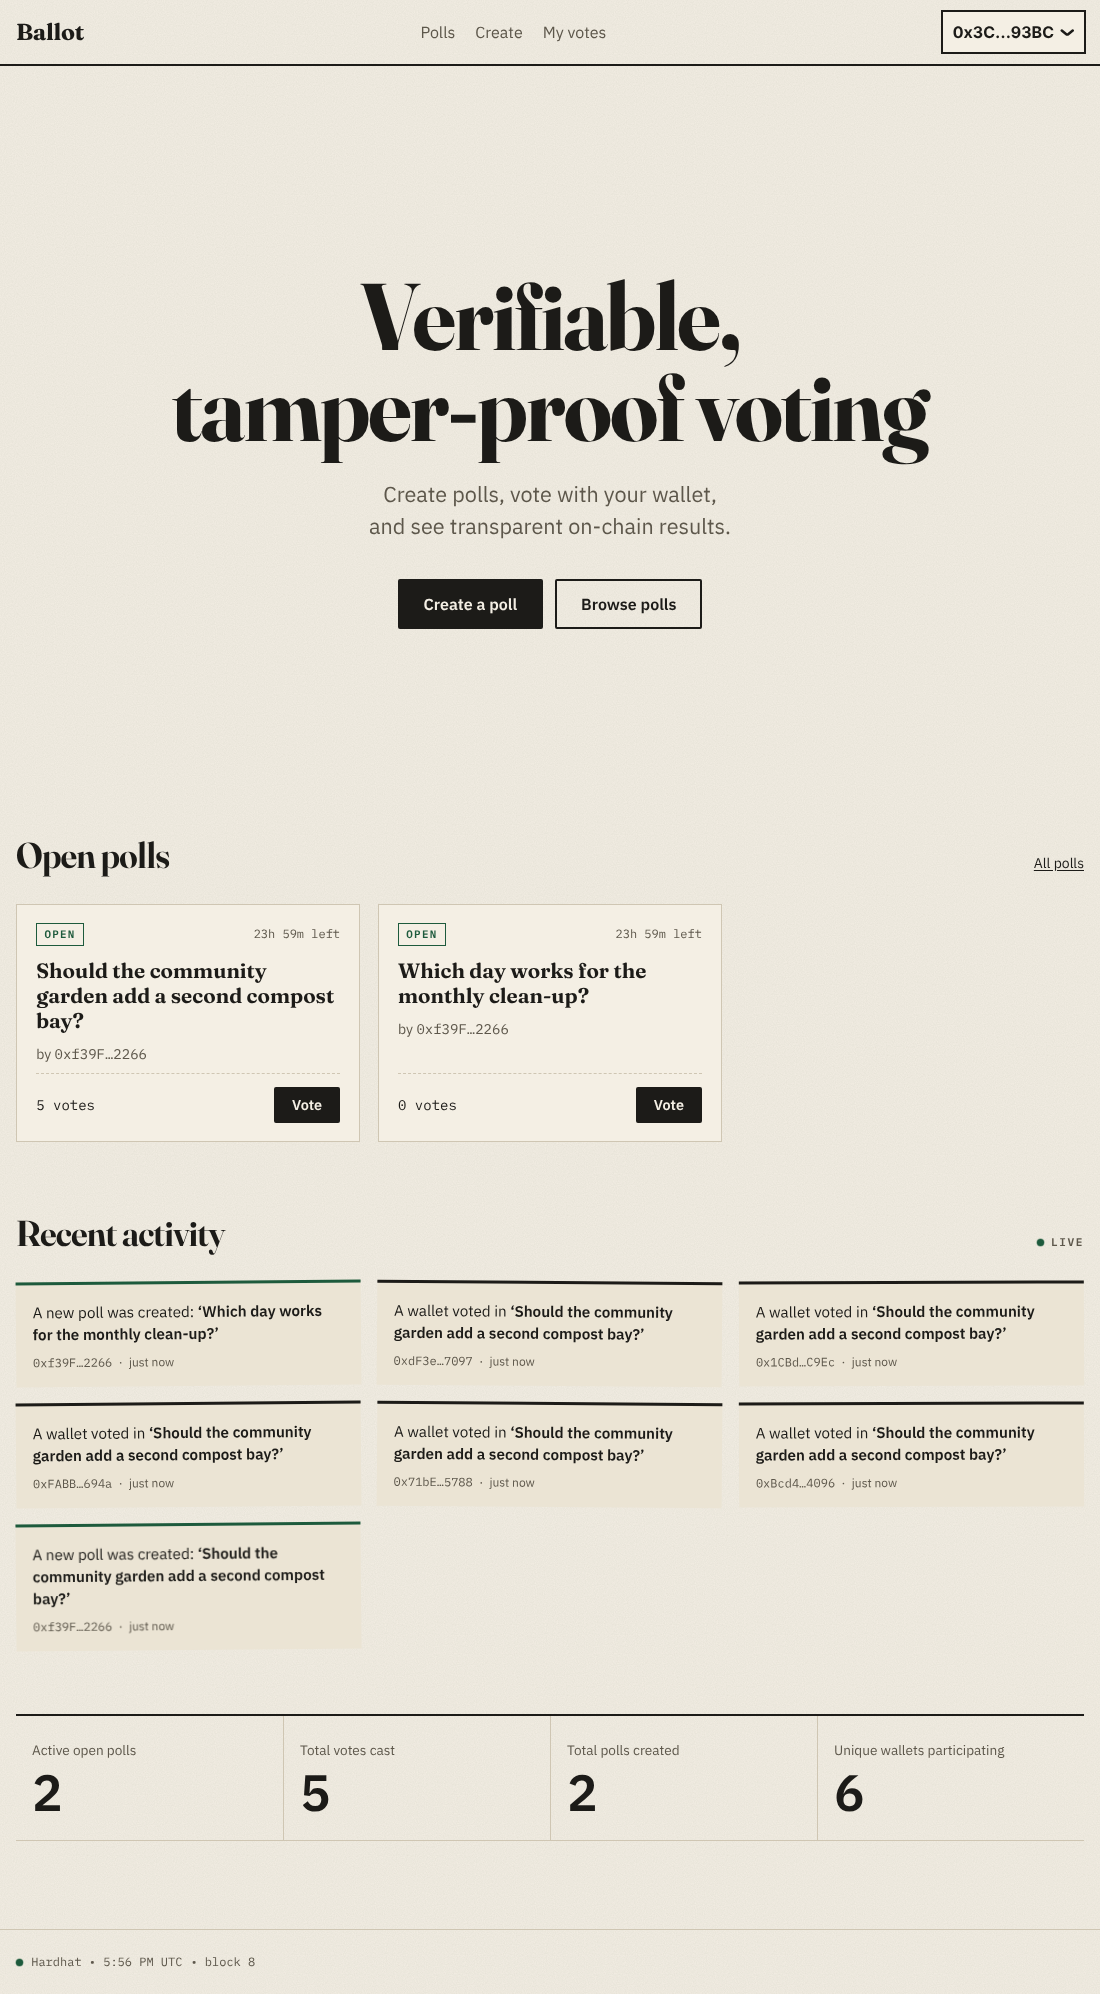
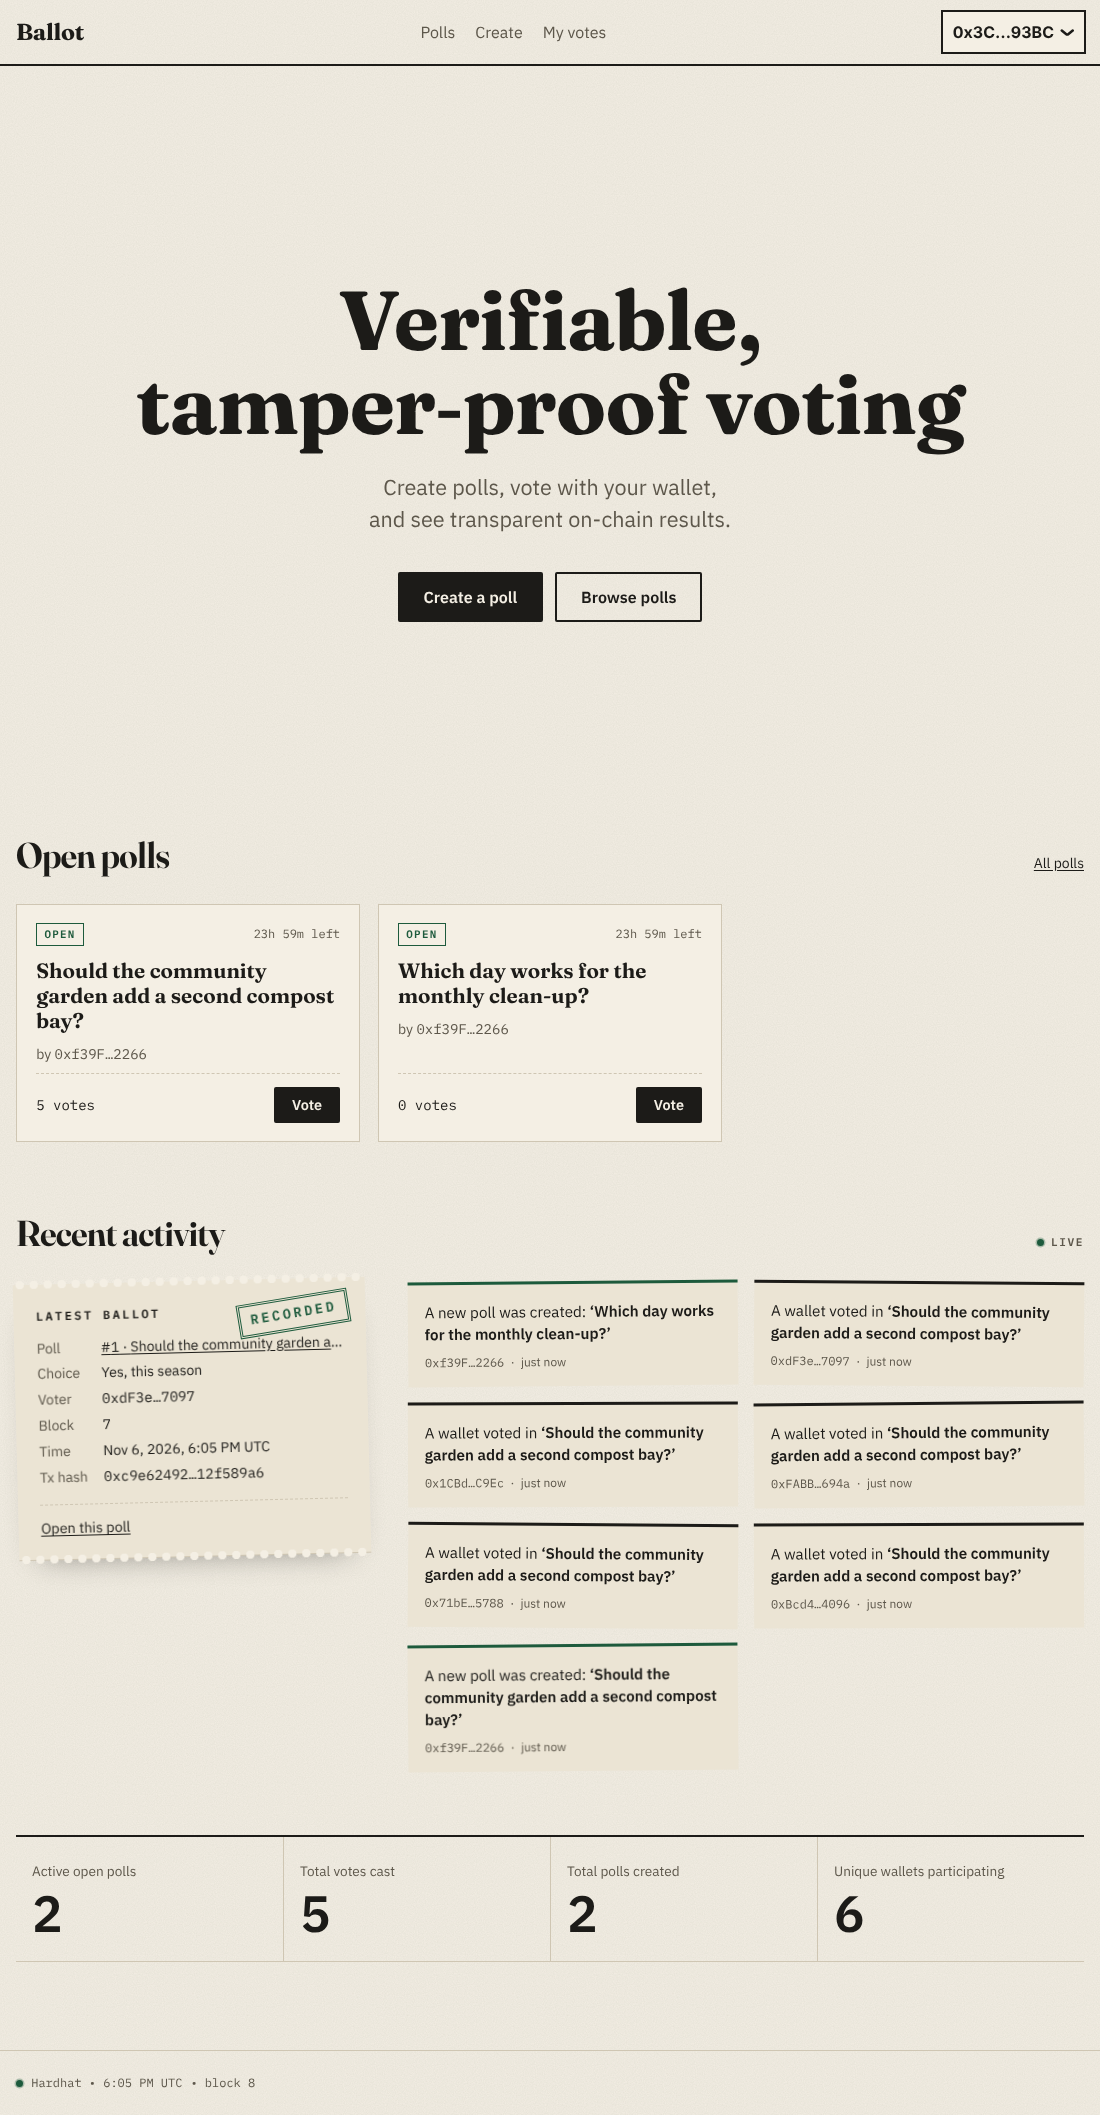
feat(frontend): wordmark typeface for the headline; latest-ballot receipt on the homepage
Claude-Session: https://claude.ai/code/session_011PYWN6V5q9MCynC1YPahCT

diff --git a/frontend/src/components/home/RecentActivity.tsx b/frontend/src/components/home/RecentActivity.tsx
@@ -7,8 +7,9 @@ import { buildFeed, type FeedItem } from "../../lib/activity";
 import { pluralVotes, shortAddress } from "../../lib/format";
 import { relativeTime } from "../../lib/relativeTime";
 import { Skeleton } from "../Skeleton";
+import { LatestReceipt } from "./LatestReceipt";
 
-const SHOWN = 9;
+const SHOWN = 8;
 
 function Sentence({ item }: { item: FeedItem }) {
   const q = <span className="note-quote">‘{item.poll.title}’</span>;
@@ -54,41 +55,46 @@ export function RecentActivity({ chain, polls, loading, failed }: { chain: Chain
           <span className="pulse-dot" /> Live
         </span>
       </div>
+      <div className="activity-layout">
+        {loading ? <Skeleton className="h-64 w-full" /> : <LatestReceipt chain={chain} polls={polls} />}
+        <div className="min-w-0">
       {loading ? (
-        <ul className="note-grid" aria-label="Loading activity">
-          {[0, 1, 2].map((i) => (
-            <li key={i} className="note">
-              <Skeleton className="h-4 w-5/6" />
-              <Skeleton className="mt-2 h-4 w-1/2" />
-            </li>
-          ))}
-        </ul>
-      ) : failed ? (
-        <p className="hint">Recent activity isn't available right now. Polls and results still work.</p>
-      ) : feed.length === 0 ? (
-        <p className="hint">It's quiet so far. Votes and new polls will show up here as they happen.</p>
-      ) : (
-        <ul className="note-grid" data-testid="activity">
-          {feed.map((item) => (
-            <li key={item.id} className={fresh.has(item.id) ? "note-in" : ""}>
-              <Link to={`/poll/${item.poll.id}`} className={`note note-${item.kind}`} data-testid={`activity-${item.kind}`}>
-                <span className="note-text">
-                  <Sentence item={item} />
-                </span>
-                <span className="note-meta">
-                  {item.actor && (
-                    <span className="mono" title={item.actor}>
-                      {shortAddress(item.actor)}
+            <ul className="note-grid" aria-label="Loading activity">
+              {[0, 1, 2].map((i) => (
+                <li key={i} className="note">
+                  <Skeleton className="h-4 w-5/6" />
+                  <Skeleton className="mt-2 h-4 w-1/2" />
+                </li>
+              ))}
+            </ul>
+          ) : failed ? (
+            <p className="hint">Recent activity isn't available right now. Polls and results still work.</p>
+          ) : feed.length === 0 ? (
+            <p className="hint">It's quiet so far. Votes and new polls will show up here as they happen.</p>
+          ) : (
+            <ul className="note-grid" data-testid="activity">
+              {feed.map((item) => (
+                <li key={item.id} className={fresh.has(item.id) ? "note-in" : ""}>
+                  <Link to={`/poll/${item.poll.id}`} className={`note note-${item.kind}`} data-testid={`activity-${item.kind}`}>
+                    <span className="note-text">
+                      <Sentence item={item} />
                     </span>
-                  )}
-                  {item.actor && item.at !== null && <span aria-hidden="true">·</span>}
-                  {item.at !== null && <span>{relativeTime(item.at, nowSec)}</span>}
-                </span>
-              </Link>
-            </li>
-          ))}
-        </ul>
-      )}
+                    <span className="note-meta">
+                      {item.actor && (
+                        <span className="mono" title={item.actor}>
+                          {shortAddress(item.actor)}
+                        </span>
+                      )}
+                      {item.actor && item.at !== null && <span aria-hidden="true">·</span>}
+                      {item.at !== null && <span>{relativeTime(item.at, nowSec)}</span>}
+                    </span>
+                  </Link>
+                </li>
+              ))}
+            </ul>
+          )}
+        </div>
+      </div>
     </section>
   );
 }

diff --git a/frontend/src/components/home/LatestReceipt.tsx b/frontend/src/components/home/LatestReceipt.tsx
@@ -1,0 +1,83 @@
+import { Link } from "react-router";
+import { explorerTxUrl, targetChain } from "../../config/chains";
+import type { Poll } from "../../contract/contract";
+import type { ChainEvents } from "../../hooks/useActivity";
+import { formatDateTime, shortAddress, shortHash } from "../../lib/format";
+
+/**
+ * The newest real vote on-chain, printed as a stamped paper receipt. The poll title opens the poll;
+ * the footer link opens the transaction on Etherscan so anyone can check it independently.
+ * Before any vote exists it shows a clearly marked specimen.
+ */
+export function LatestReceipt({ chain, polls }: { chain: ChainEvents | undefined; polls: Poll[] | undefined }) {
+  const vote = chain?.events.find((e) => e.kind === "vote");
+  const poll = vote ? polls?.find((p) => p.id === vote.pollId) : undefined;
+
+  if (!vote || !poll) {
+    return (
+      <figure className="hero-receipt" aria-label="Example ballot receipt" data-testid="latest-receipt-specimen">
+        <p className="stamp stamp-hero">Specimen</p>
+        <p className="receipt-title">Ballot receipt</p>
+        <dl className="receipt-grid">
+          <dt>Poll</dt>
+          <dd>Your question</dd>
+          <dt>Choice</dt>
+          <dd>Your answer</dd>
+          <dt>Network</dt>
+          <dd>{targetChain.name}</dd>
+          <dt>Tx hash</dt>
+          <dd className="mono">0x…</dd>
+        </dl>
+        <figcaption className="receipt-foot">Every vote gets a receipt like this.</figcaption>
+      </figure>
+    );
+  }
+
+  const time = chain?.times.get(vote.blockNumber);
+  const url = explorerTxUrl(vote.txHash);
+  return (
+    <figure className="hero-receipt" aria-label="Latest ballot on-chain" data-testid="latest-receipt">
+      <p className="stamp stamp-hero">Recorded</p>
+      <p className="receipt-title">Latest ballot</p>
+      <dl className="receipt-grid">
+        <dt>Poll</dt>
+        <dd className="truncate" title={poll.title}>
+          <Link to={`/poll/${poll.id}`} className="link" data-testid="latest-receipt-poll">
+            #{poll.id.toString()} · {poll.title}
+          </Link>
+        </dd>
+        <dt>Choice</dt>
+        <dd className="truncate" title={vote.optionIndex !== null ? poll.options[vote.optionIndex] : undefined}>
+          {vote.optionIndex !== null ? poll.options[vote.optionIndex] : "—"}
+        </dd>
+        <dt>Voter</dt>
+        <dd className="mono" title={vote.actor ?? undefined}>
+          {vote.actor ? shortAddress(vote.actor) : "—"}
+        </dd>
+        <dt>Block</dt>
+        <dd className="mono tabular-nums">{vote.blockNumber.toLocaleString()}</dd>
+        {time !== undefined && (
+          <>
+            <dt>Time</dt>
+            <dd>{formatDateTime(time)}</dd>
+          </>
+        )}
+        <dt>Tx hash</dt>
+        <dd className="mono" title={vote.txHash}>
+          {shortHash(vote.txHash)}
+        </dd>
+      </dl>
+      <figcaption className="receipt-foot">
+        {url ? (
+          <a href={url} target="_blank" rel="noreferrer" className="link" data-testid="latest-receipt-tx">
+            Check it yourself on Etherscan
+          </a>
+        ) : (
+          <Link to={`/poll/${poll.id}`} className="link">
+            Open this poll
+          </Link>
+        )}
+      </figcaption>
+    </figure>
+  );
+}

diff --git a/frontend/src/index.css b/frontend/src/index.css
@@ -223,14 +223,16 @@ input[type="datetime-local"].input { width: auto; }
 .hero { min-height: calc(100svh - var(--chrome) - var(--peek)); display: grid; place-items: center; text-align: center; padding: 2rem 0 0; }
 /* A grid item's margin moves its centre by half that amount; this offset puts the block's centre at the
    exact centre of the viewport (not of the area below the header, and despite the peek). */
-.hero-inner { max-width: 60rem; margin-top: calc(var(--peek) - var(--chrome) - 2rem); }
+.hero-inner { max-width: 76rem; margin-top: calc(var(--peek) - var(--chrome) - 2rem); }
+/* Same face as the "Ballot" wordmark: Fraunces 700 with the wordmark's small-size optical cut
+   (opsz 23, sturdier and lower-contrast than the display cut) and its -0.01em tracking — just bigger. */
 .hero-title {
   font-family: var(--serif);
   font-weight: 700;
-  font-variation-settings: "opsz" 144, "SOFT" 0;
-  font-size: clamp(3rem, 8.6vw, 7.25rem);
-  line-height: .96;
-  letter-spacing: -0.02em;
+  font-variation-settings: "opsz" 23;
+  font-size: clamp(2.8rem, 7.6vw, 6.25rem);
+  line-height: 1;
+  letter-spacing: -0.01em;
   text-wrap: balance;
 }
 .hero-sub { margin: 1.6rem auto 0; max-width: 34rem; font-size: clamp(1.1rem, 2.2vw, 1.35rem); line-height: 1.5; color: var(--muted); text-wrap: balance; }
@@ -295,3 +297,27 @@ input[type="datetime-local"].input { width: auto; }
 .stat-label { font-size: .85rem; color: var(--muted); }
 
 .site-footer { border-top: 1px solid var(--line); margin-top: 3rem; }
+
+/* Latest ballot: the newest real vote as a tilted, stamped paper receipt beside the activity notes. */
+.activity-layout { display: grid; gap: 2rem; align-items: start; }
+@media (min-width: 960px) { .activity-layout { grid-template-columns: 22rem minmax(0, 1fr); gap: 2.5rem; } }
+.hero-receipt {
+  position: relative;
+  background: var(--paper-2);
+  padding: 1.6rem 1.4rem 1.2rem;
+  transform: rotate(-1.4deg);
+  box-shadow: 0 1px 0 var(--line), 0 18px 30px -22px rgb(0 0 0 / .45);
+  transition: transform .2s ease;
+}
+.hero-receipt:hover, .hero-receipt:focus-within { transform: rotate(0); }
+.hero-receipt::before, .hero-receipt::after {
+  content: ""; position: absolute; left: 0; right: 0; height: 8px;
+  background: radial-gradient(circle at 7px 50%, var(--paper) 4px, transparent 4.5px) 0 0 / 14px 8px repeat-x;
+}
+.hero-receipt::before { top: -4px; }
+.hero-receipt::after { bottom: -4px; }
+.hero-receipt .receipt-grid dd { min-width: 0; }
+.stamp-hero { top: 1.1rem; right: 1rem; }
+@media (prefers-reduced-motion: no-preference) {
+  .hero-receipt .stamp { animation: stamp-in 420ms cubic-bezier(.2, 1.4, .4, 1) 300ms both; }
+}

diff --git a/frontend/e2e/home.spec.ts b/frontend/e2e/home.spec.ts
@@ -72,3 +72,30 @@ test.describe("Homepage", () => {
     await expect(page.getByTestId("network-indicator")).toContainText(/Hardhat • \d/);
   });
 });
+
+test.describe("Homepage — latest ballot receipt", () => {
+  test("shows the newest real vote as a stamped receipt that links to its poll", async ({ page }) => {
+    const title = `Receipt link ${Date.now()}`;
+    const id = await chain.createPoll({ title, options: ["Filter coffee", "Tea"] });
+    await chain.vote(id, 0, 18);
+    await page.goto("/");
+    const receipt = page.getByTestId("latest-receipt");
+    await expect(receipt).toContainText("Recorded");
+    await expect(receipt).toContainText(title);
+    await expect(receipt).toContainText("Filter coffee");
+    await expect(receipt).toContainText(/0x[0-9a-f]{8}…[0-9a-f]{6}/);
+    await receipt.getByTestId("latest-receipt-poll").click();
+    await expect(page).toHaveURL(new RegExp(`/poll/${id}$`));
+  });
+
+  test("headline uses the wordmark's typeface settings", async ({ page }) => {
+    await page.goto("/");
+    const style = (sel: string) =>
+      page.$eval(sel, (e) => {
+        const c = getComputedStyle(e);
+        return { family: c.fontFamily, weight: c.fontWeight };
+      });
+    expect(await style(".hero-title")).toEqual(await style(".brand"));
+    expect(await page.$eval(".hero-title", (e) => getComputedStyle(e).fontVariationSettings)).toContain('"opsz" 23');
+  });
+});

diff --git a/frontend/src/lib/__tests__/home.test.ts b/frontend/src/lib/__tests__/home.test.ts
@@ -43,7 +43,7 @@ describe("rankOpenPolls", () => {
 
 describe("buildFeed", () => {
   const ev = (id: string, kind: ChainEvent["kind"], pollId: number, block: number): ChainEvent => ({
-    id, kind, pollId: BigInt(pollId), actor: kind === "cancelled" ? null : B, txHash: `0x${"1".repeat(64)}`, blockNumber: BigInt(block),
+    id, kind, pollId: BigInt(pollId), actor: kind === "cancelled" ? null : B, optionIndex: kind === "vote" ? 0 : null, txHash: `0x${"1".repeat(64)}`, blockNumber: BigInt(block),
   });
 
   it("merges events with recently closed polls, newest first, and drops unknown polls", () => {
@@ -63,8 +63,8 @@ describe("buildFeed", () => {
 describe("uniqueWallets", () => {
   it("counts creators and voters once each, case-insensitively", () => {
     const events: ChainEvent[] = [
-      { id: "1", kind: "vote", pollId: 1n, actor: B, txHash: `0x${"1".repeat(64)}`, blockNumber: 1n },
-      { id: "2", kind: "vote", pollId: 1n, actor: B.toUpperCase().replace("0X", "0x") as `0x${string}`, txHash: `0x${"2".repeat(64)}`, blockNumber: 2n },
+      { id: "1", kind: "vote", pollId: 1n, actor: B, optionIndex: 0, txHash: `0x${"1".repeat(64)}`, blockNumber: 1n },
+      { id: "2", kind: "vote", pollId: 1n, actor: B.toUpperCase().replace("0X", "0x") as `0x${string}`, optionIndex: 1, txHash: `0x${"2".repeat(64)}`, blockNumber: 2n },
     ];
     expect(uniqueWallets([poll(1), poll(2)], events)).toBe(2);
   });

diff --git a/frontend/src/hooks/useActivity.ts b/frontend/src/hooks/useActivity.ts
@@ -11,6 +11,8 @@ export type ChainEvent = {
   kind: "vote" | "created" | "cancelled";
   pollId: bigint;
   actor: Address | null;
+  /** Chosen option for votes; null for other events. */
+  optionIndex: number | null;
   txHash: Hash;
   blockNumber: bigint;
 };
@@ -51,11 +53,11 @@ export function useChainEvents() {
           const base = { id: `${log.transactionHash}:${log.logIndex}`, txHash: log.transactionHash, blockNumber: log.blockNumber };
           switch (log.eventName) {
             case "Voted":
-              return [{ ...base, kind: "vote", pollId: log.args.pollId!, actor: log.args.voter! }];
+              return [{ ...base, kind: "vote", pollId: log.args.pollId!, actor: log.args.voter!, optionIndex: Number(log.args.optionIndex) }];
             case "PollCreated":
-              return [{ ...base, kind: "created", pollId: log.args.pollId!, actor: log.args.creator! }];
+              return [{ ...base, kind: "created", pollId: log.args.pollId!, actor: log.args.creator!, optionIndex: null }];
             case "PollCancelled":
-              return [{ ...base, kind: "cancelled", pollId: log.args.pollId!, actor: null }];
+              return [{ ...base, kind: "cancelled", pollId: log.args.pollId!, actor: null, optionIndex: null }];
             default:
               return [];
           }

diff --git a/docs/BUILD_LOG.md b/docs/BUILD_LOG.md
@@ -354,3 +354,22 @@ Test/build results (actually observed): vitest 26 passed; tsc OK; oxlint 0 new i
 Not done / known issues: none new. No backend, contract or wallet-flow code changed.
 Commit made: feat(frontend): product homepage — centred hero, open polls grid, activity feed, live stats
 ```
+
+---
+
+## Homepage tweaks: wordmark typeface for the headline, latest-ballot receipt back
+
+### Decisions
+- **Headline set exactly like the "Ballot" wordmark** — same family and weight (Fraunces 700) and the wordmark's optical cut (`opsz` 23, measured from its computed style) and -0.01em tracking, instead of the high-contrast `opsz` 144 display cut. The wider letterforms needed a wider hero block (76rem) to keep two lines on desktop.
+- **Latest-ballot receipt returned inside "Recent activity"** (left column on desktop, above the notes on mobile) so the requested section order is unchanged. It shows the newest real vote: poll title links to the poll, footer links to the transaction on Etherscan (on the local chain: "Open this poll"); a "Specimen" receipt shows before any vote exists. Tilted, perforated, stamped "Recorded"; straightens on hover; stamp animation off under reduced motion.
+
+```
+STATUS REPORT
+Done: headline typeface matches the wordmark; latest-ballot receipt with links on the homepage.
+Files created/changed (paths): frontend/src/index.css, components/home/{LatestReceipt,RecentActivity}.tsx, hooks/useActivity.ts,
+  lib/__tests__/home.test.ts, e2e/home.spec.ts, README.md, docs/screenshots/*
+How to run or verify: npm run dev → /; npm run e2e
+Test/build results (actually observed): vitest 26 passed; tsc OK; oxlint 0 new; build OK; E2E 29 passed (46.7s);
+  hero centre 450/450 at 1440×900 and 422.35/422 at 390×844; headline 2 lines on desktop; no sideways scroll at 390px.
+Commit made: feat(frontend): wordmark typeface for the headline; latest-ballot receipt on the homepage
+```

diff --git a/README.md b/README.md
@@ -60,7 +60,7 @@ flowchart LR
 | `frontend/src/hooks/useTx.ts` | The single path every write goes through (simulate, wallet, pending saved across refresh, decoded errors). |
 | `frontend/src/lib/errors.ts` | Turns contract errors like `AlreadyVoted` into sentences like "This wallet has already voted in this poll." |
 | `frontend/src/pages/` | Homepage (hero → open polls → recent activity → live stats), all polls (`/polls`), create form, poll page, my votes. |
-| `frontend/e2e/` | 27 browser tests against a local blockchain, with a scriptable fake wallet. |
+| `frontend/e2e/` | 29 browser tests against a local blockchain, with a scriptable fake wallet. |
 | `docs/BUILD_LOG.md` | Every phase's status report and every decision made along the way. |
 | `docs/screenshots/` | The finished app, light and dark. |
 
@@ -108,7 +108,7 @@ To vote locally, add network `http://127.0.0.1:8545` (chain id 31337) to MetaMas
 | Contract | `cd contracts && npm test` | 45 |
 | Contract gas report | `cd contracts && npm run test:gas` | — |
 | Frontend unit | `cd frontend && npm test` | 26 |
-| End-to-end (starts its own chain + server) | `cd frontend && npm run e2e` | 27 |
+| End-to-end (starts its own chain + server) | `cd frontend && npm run e2e` | 29 |
 | Type check / build | `cd frontend && npm run typecheck && npm run build` | — |
 
 The end-to-end tests cover: creating a poll, voting, double votes, wrong network, rejecting in the wallet, not enough ETH,
